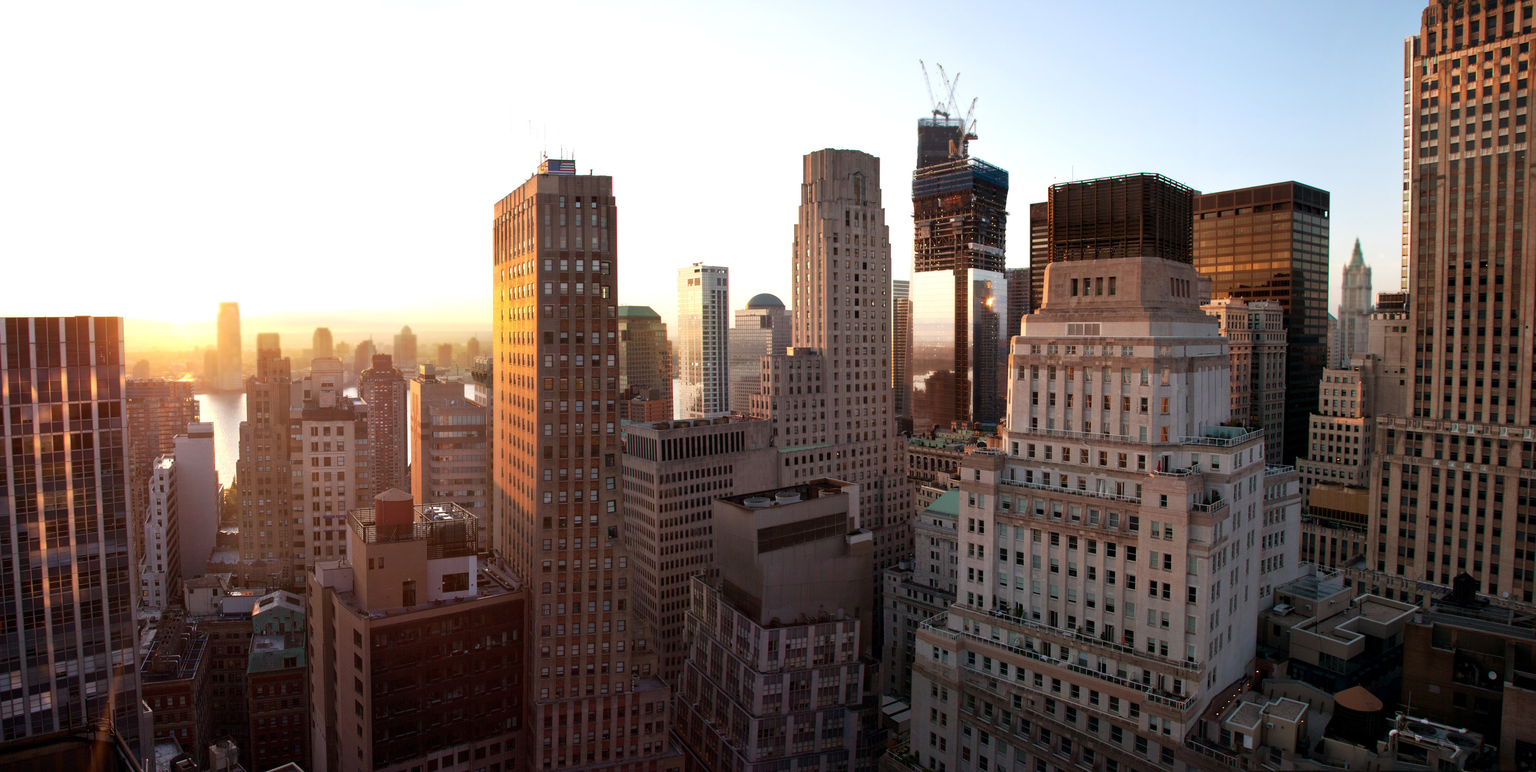
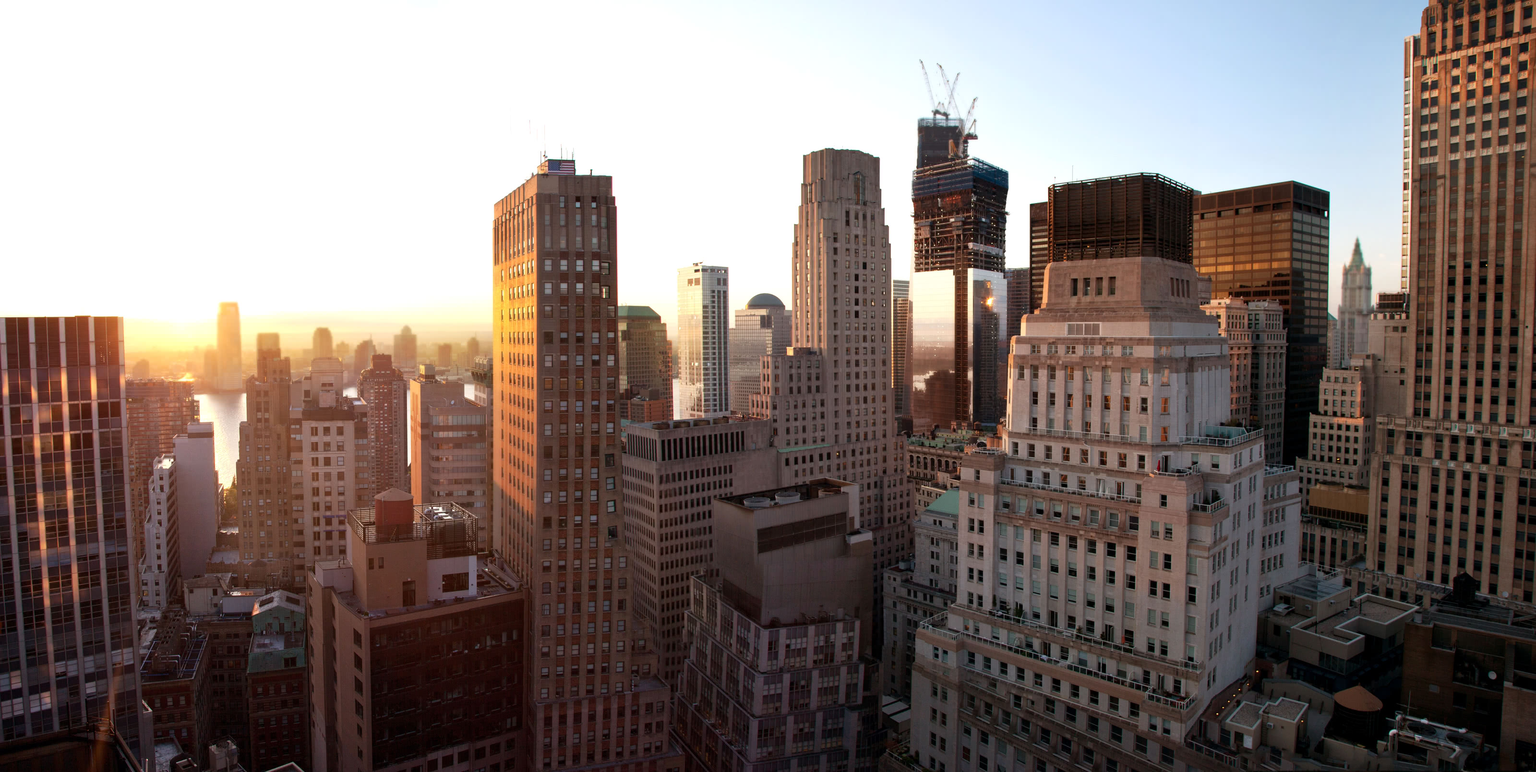
Activate high-res splash page background image on high-density screens (#337)
* Activate high-res image on high-density screens

Devices with standard "1x" density will get a less detailed image.

Right now only city-photo.jpg (the splash page image)
has high-res alternate versions.

* Add compressed images, rename original

Compressed with Guetzli (1x), jpeg-recompress (2x), and Mozjpeg (3x)

Original-fullsize is direct from the camera

Changed region(s): [[0.75, 0.2177, 0.7812, 0.2488], [0.6875, 0.2177, 0.7188, 0.2488], [0.2812, 0.653, 0.3125, 0.6841]]

diff --git a/app/assets/stylesheets/_mobile.scss b/app/assets/stylesheets/_mobile.scss
@@ -1,3 +1,18 @@
+// Pixel Density-Related Rules
+
+@media only screen and (-webkit-min-device-pixel-ratio: 2), only screen and (min-resolution: 192dpi) {
+    body .splash-background {
+        background-image: url('city-photo-2x.jpg');
+    }
+}
+@media only screen and (-webkit-min-device-pixel-ratio: 3), only screen and (min-resolution: 288dpi) {
+    body .splash-background {
+        background-image: url('city-photo-3x.jpg');
+    }
+}
+
+// Screen Width-Related Rules
+
 @media only screen and (max-width: 640px), only screen and (max-device-width: 640px) {
     main, main .container {
         padding-left: 0;
